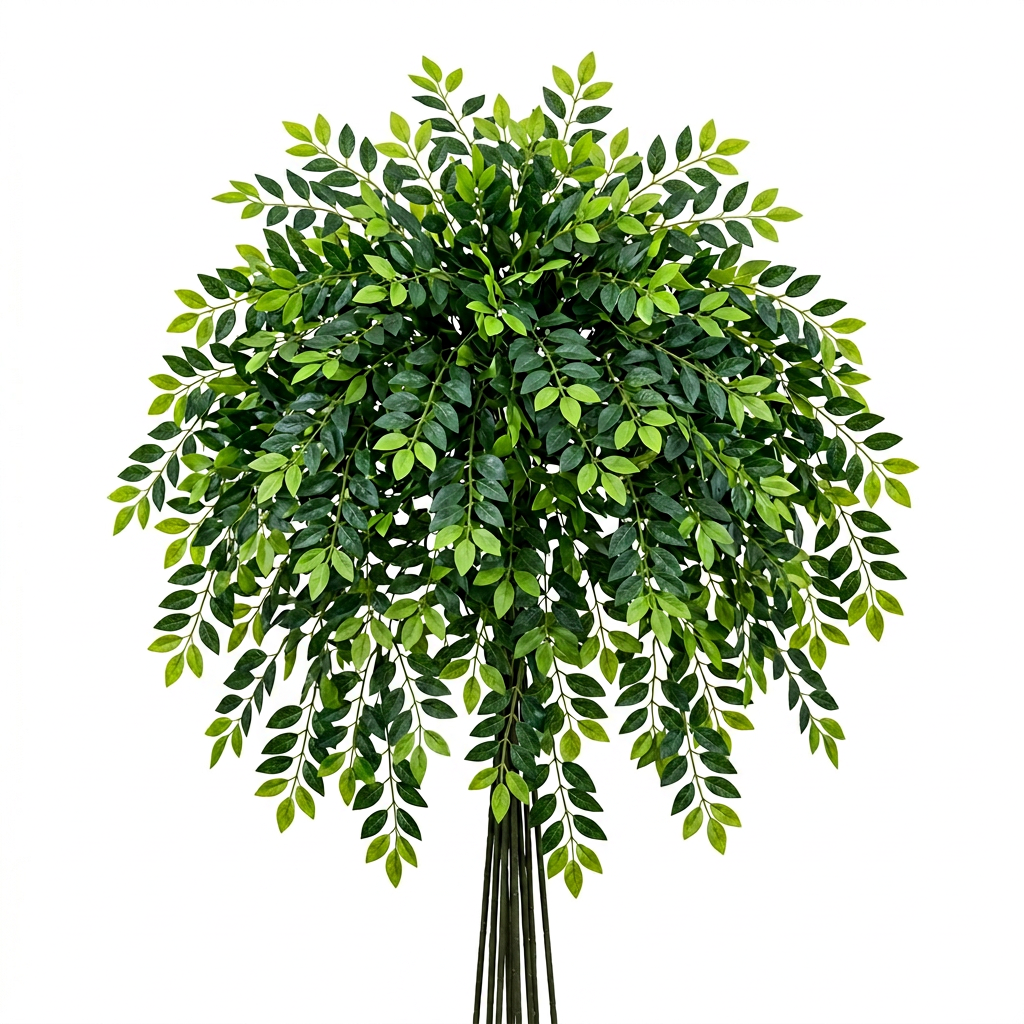
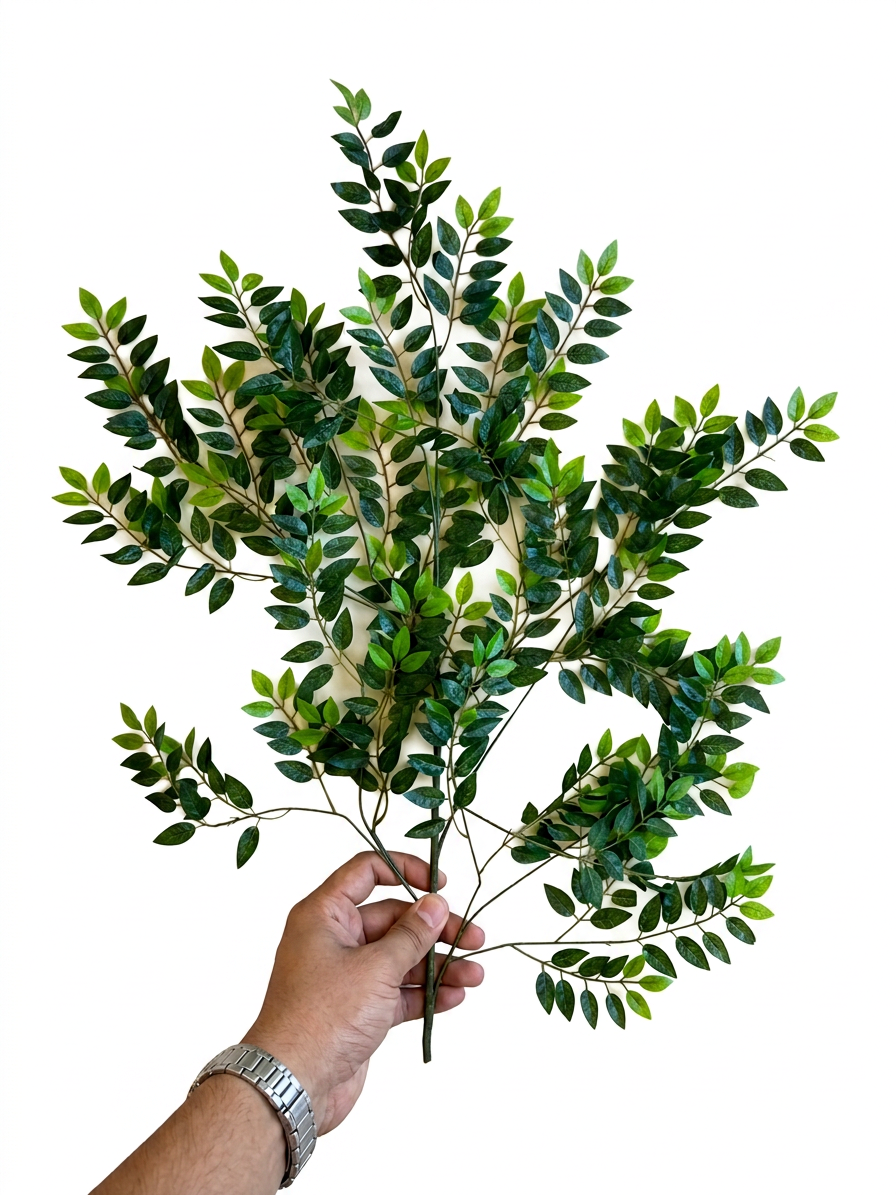
catalog: group Z-8x items and restore Z-85

diff --git a/catalog/index.html b/catalog/index.html
@@ -291,6 +291,8 @@
 
   // Определяем "серию" по коду (Z-16-1 → Z-16, Dh-146-3 → Dh-146)
   function seriesKey(code){
+    // Z-81..Z-86 должны идти одной страницей, чтобы Z-86 не оставался один на последней странице
+    if(/^Z-8[1-6]$/i.test(code)) return 'Z-8X';
     const m = code.match(/^([A-Za-z]+-\d+)-.+$/);
     return (m ? m[1] : code).toUpperCase();
   }
@@ -329,7 +331,9 @@
     while(i < singles.length){
       const rem = singles.length - i;
       let sz;
-      if(rem >= 6) sz = 6;
+      if(rem === 7) sz = 4;        // чтобы не оставалась последняя страница с 1 товаром
+      else if(rem === 8) sz = 5;   // чтобы остаток был минимум 3
+      else if(rem >= 6) sz = 6;
       else if(rem === 4 || rem === 5) sz = rem;
       else if(rem === 3) sz = 3;
       else {